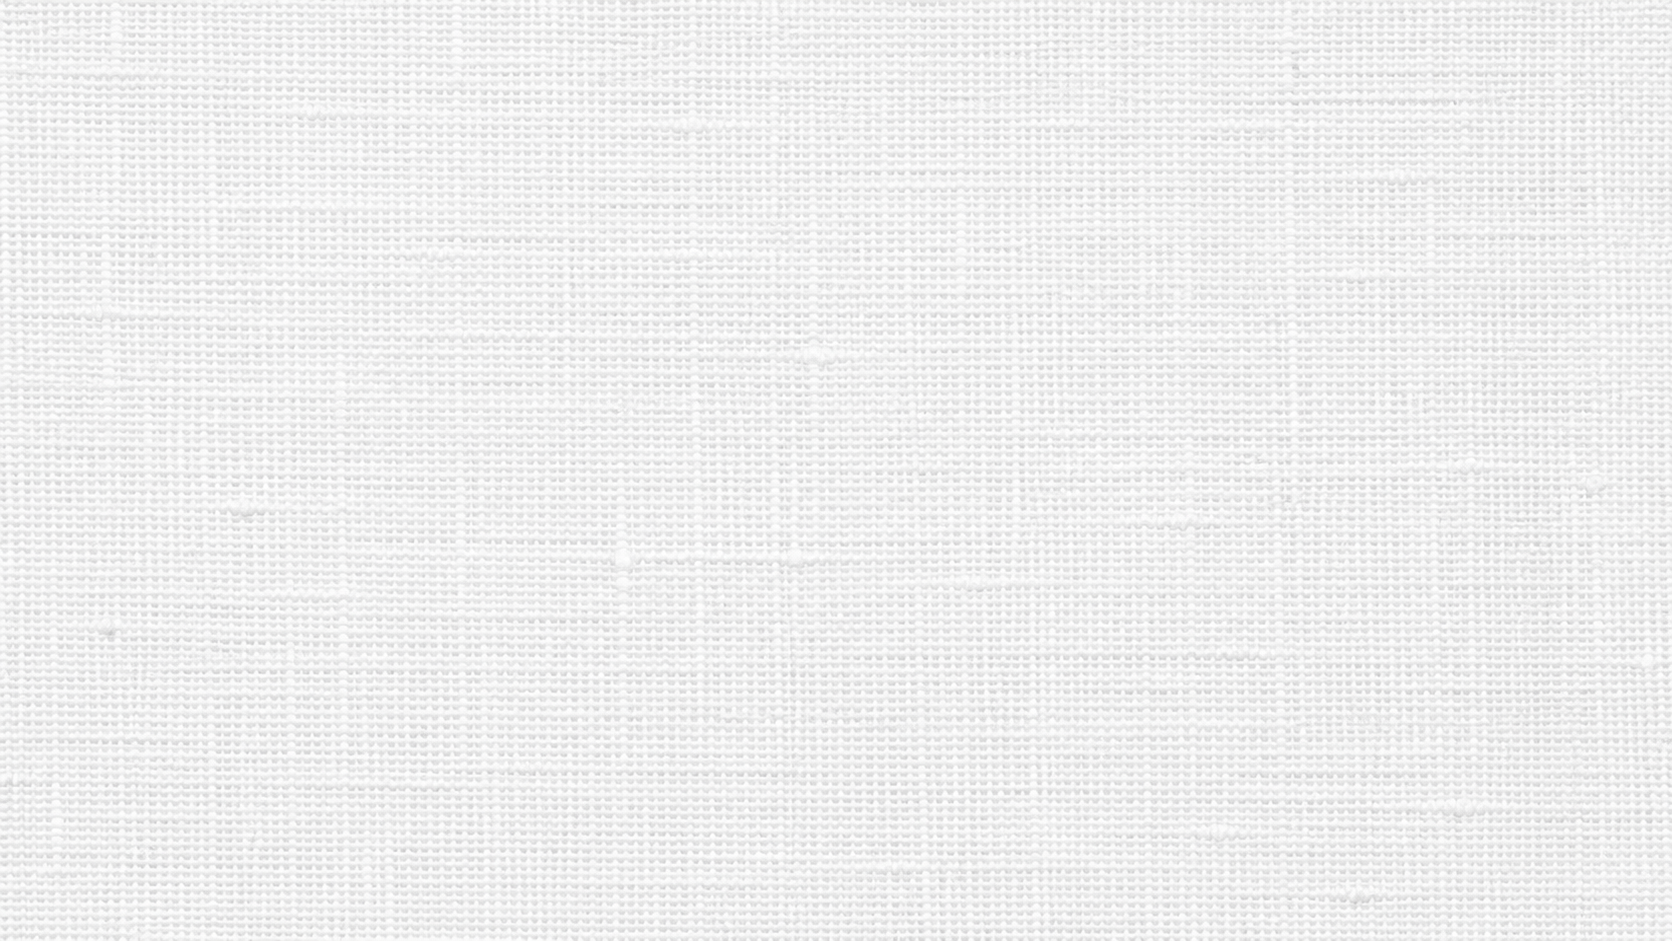
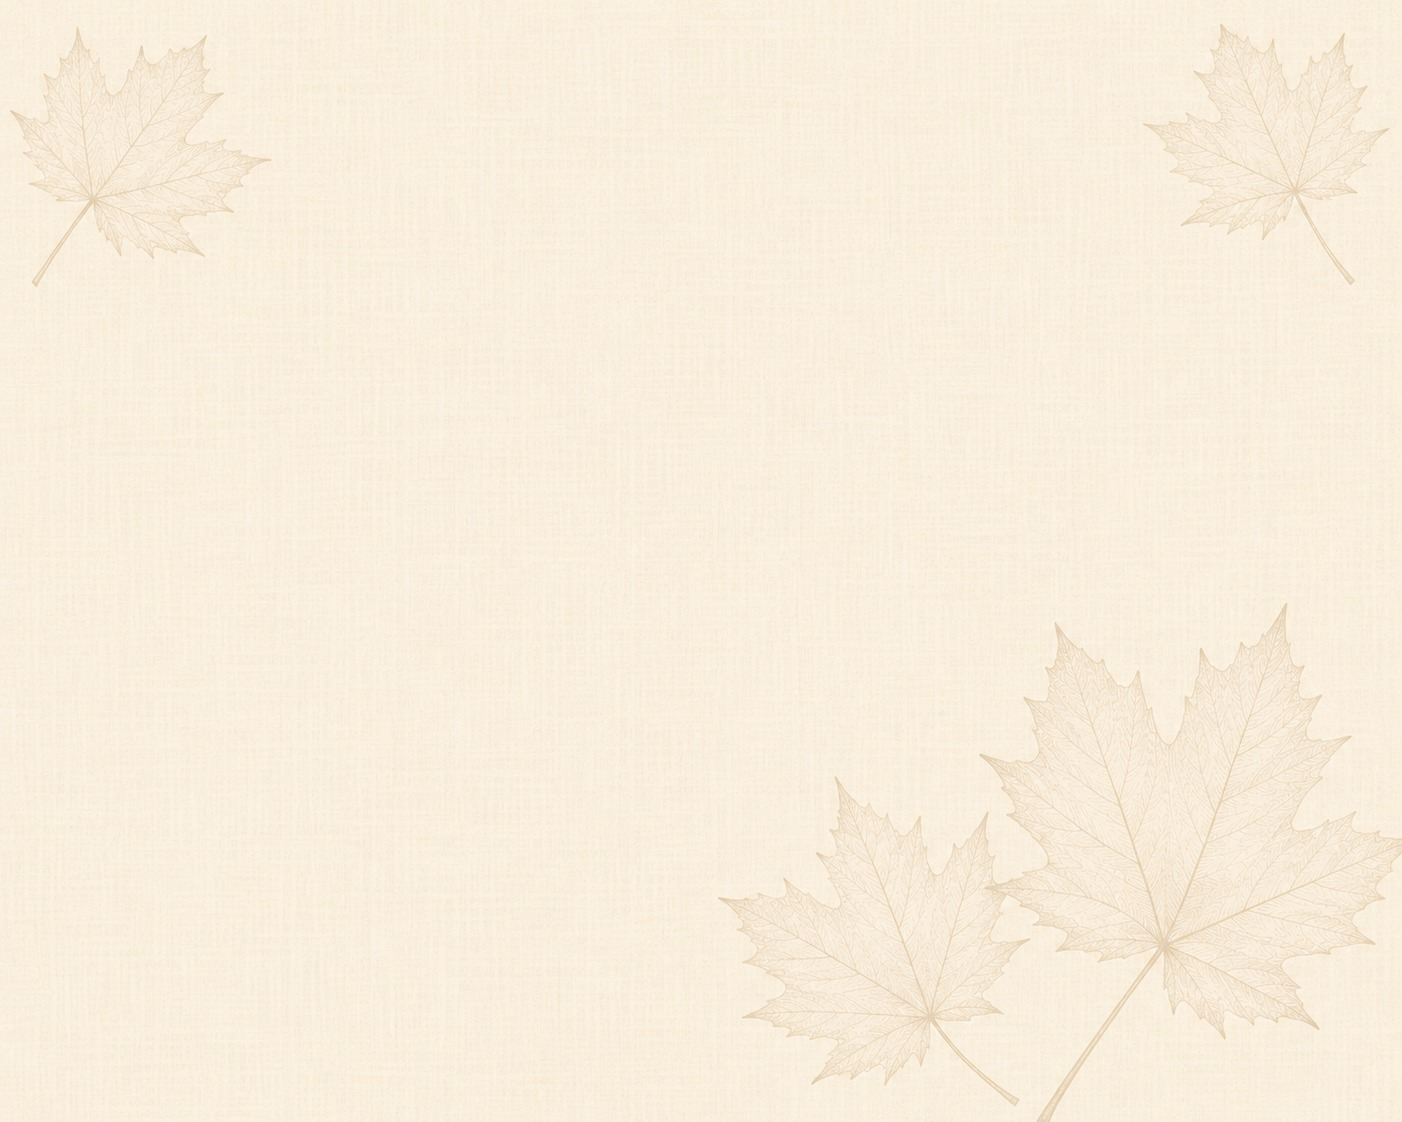
Images: update fabric.png, rename footer background (remove space); fix code references

diff --git a/src/components/home/NewsletterStrip.tsx b/src/components/home/NewsletterStrip.tsx
@@ -24,7 +24,7 @@ export default function NewsletterStrip() {
       <div
         className="absolute inset-y-0 left-0 w-40 pointer-events-none"
         style={{
-          backgroundImage:    "url('/images/about/footer/footer%20background.png')",
+          backgroundImage:    "url('/images/about/footer/footerbackground.png')",
           backgroundRepeat:   "no-repeat",
           backgroundSize:     "auto 220%",
           backgroundPosition: "left center",
@@ -34,7 +34,7 @@ export default function NewsletterStrip() {
       <div
         className="absolute inset-y-0 right-0 w-40 pointer-events-none"
         style={{
-          backgroundImage:    "url('/images/about/footer/footer%20background.png')",
+          backgroundImage:    "url('/images/about/footer/footerbackground.png')",
           backgroundRepeat:   "no-repeat",
           backgroundSize:     "auto 220%",
           backgroundPosition: "right center",

diff --git a/src/components/layout/Footer.tsx b/src/components/layout/Footer.tsx
@@ -92,7 +92,7 @@ export default function Footer() {
         className="absolute inset-0 pointer-events-none select-none"
         aria-hidden="true"
         style={{
-          backgroundImage:    "url('/images/about/footer/footer%20background.png')",
+          backgroundImage:    "url('/images/about/footer/footerbackground.png')",
           backgroundRepeat:   "no-repeat",
           backgroundSize:     "auto 118%",
           backgroundPosition: "55% center",